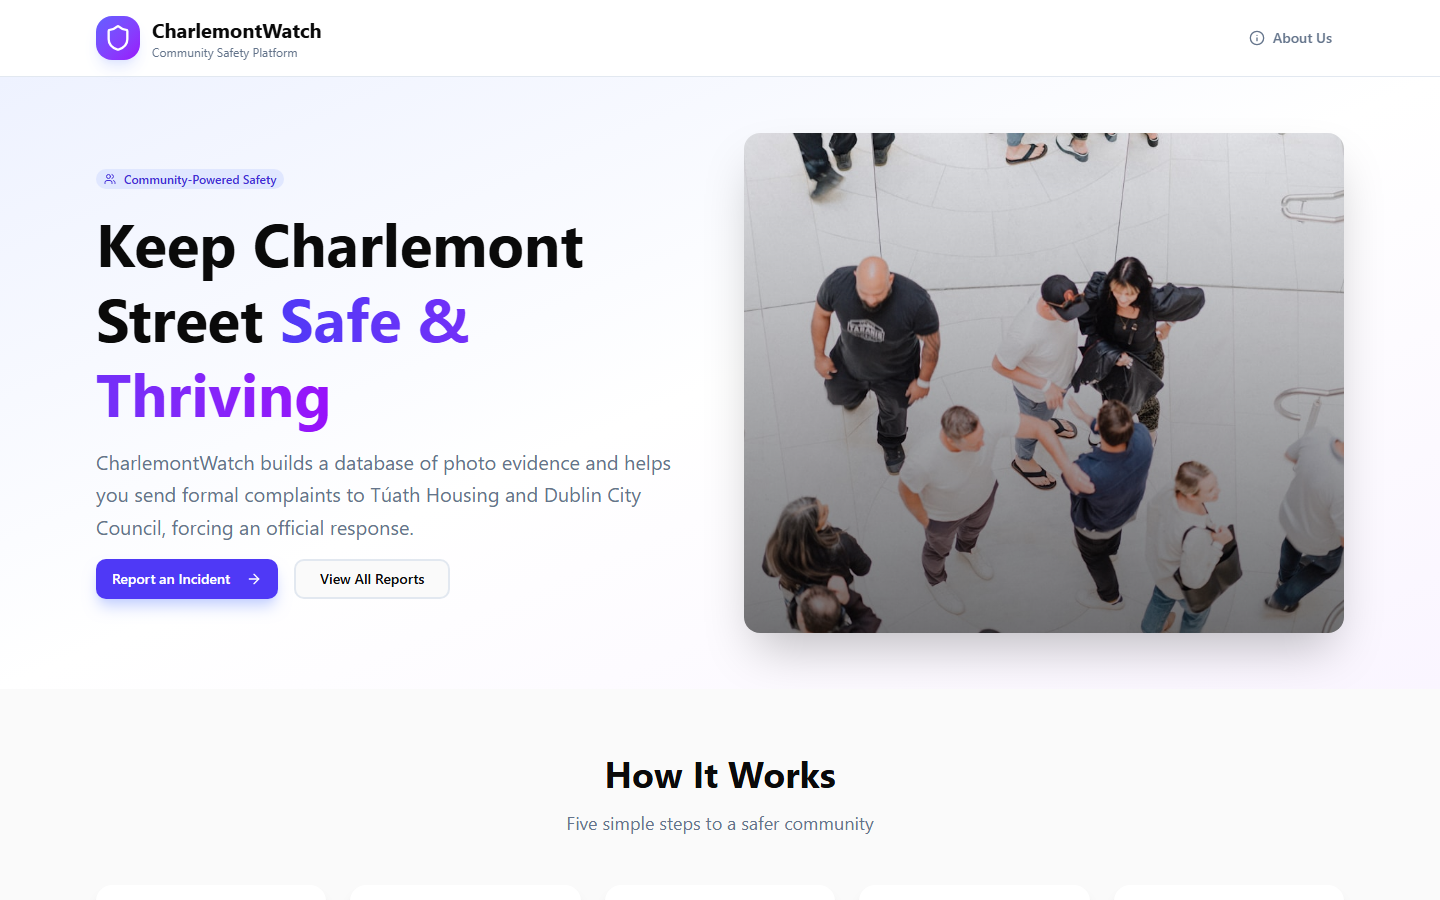
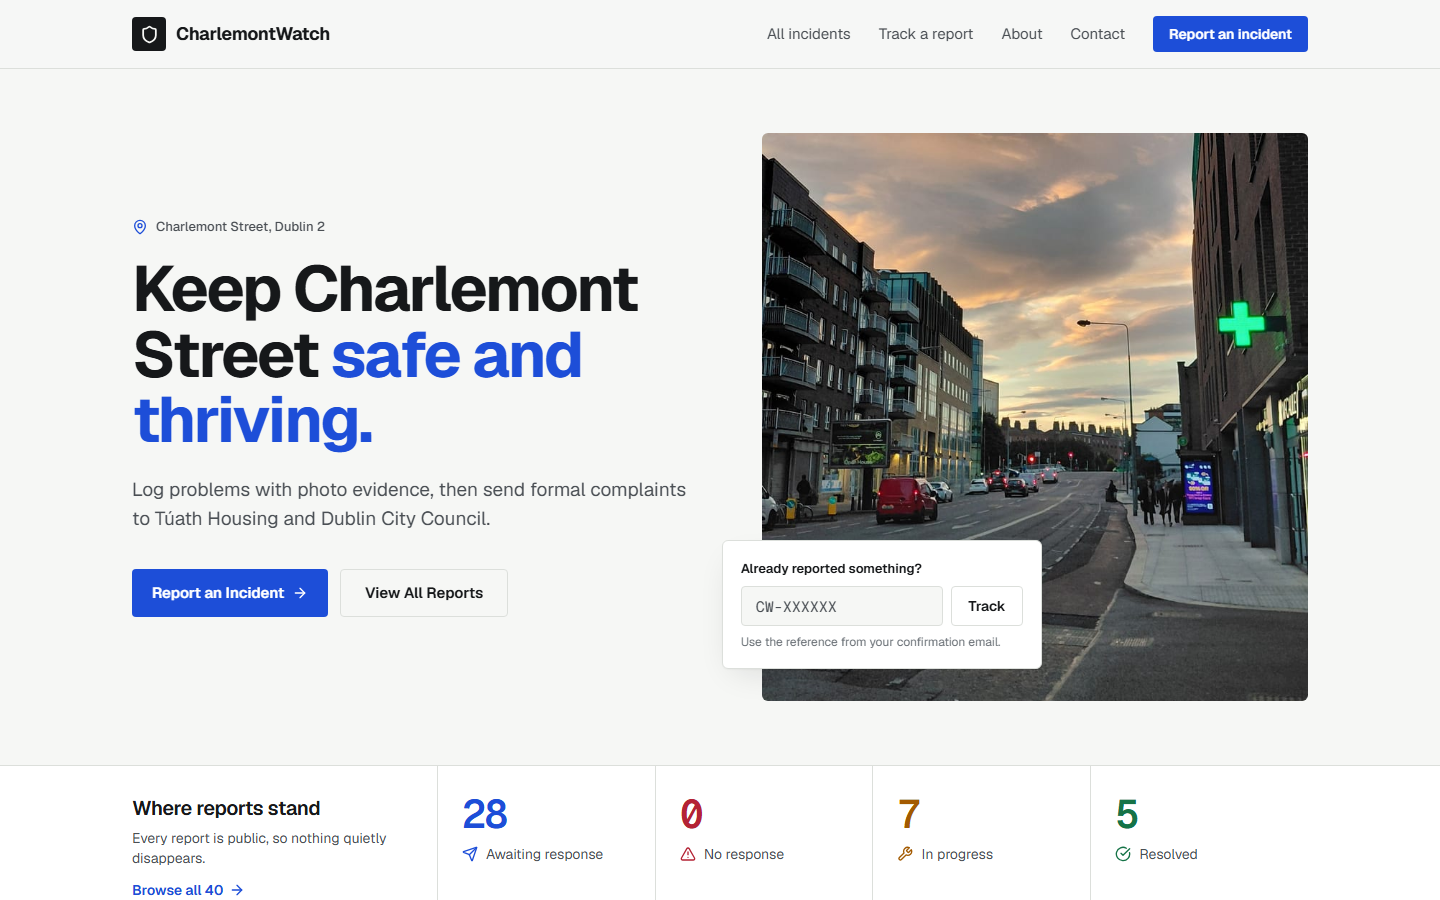
Update README, screenshots and docs for the redesign
- Replace README screenshots and the social preview image with the new design
- README: current statuses, responsive design, Geist fonts and theme
  tokens, production-only backend audit, E2E admin key note
- Use cases and diagrams: replace the old NEW status with
  AWAITING_RESPONSE / NO_RESPONSE

diff --git a/docs/use-cases/USE_CASES.md b/docs/use-cases/USE_CASES.md
@@ -45,14 +45,14 @@ The system boundary includes:
 |---|---|---|---|
 | UC-01 | Report an Incident | Resident | Submit a new incident report with type, location, description, required email, optional photos, and an optional formal complaint escalation |
 | UC-02 | Track a Report | Resident | Look up a specific incident by its shortId (e.g. `CW-A1B2C3`) or MongoDB ObjectId |
-| UC-03 | View All Public Incidents | Resident | Browse the public feed of all approved (NEW, IN_PROGRESS, RESOLVED) incidents |
+| UC-03 | View All Public Incidents | Resident | Browse the public feed of all approved (AWAITING_RESPONSE, NO_RESPONSE, IN_PROGRESS, RESOLVED) incidents |
 | UC-04 | View Incident Details | Resident | View full details of a single incident including photos and status |
 | UC-05 | Admin Login | Admin | Authenticate using email and password to access the admin dashboard |
 | UC-06 | Review Pending Queue | Admin | View all incidents with status `PENDING_REVIEW` awaiting moderation |
-| UC-07 | Approve Incident | Admin | Approve a pending incident, moving it to `NEW` and publishing it publicly |
+| UC-07 | Approve Incident | Admin | Approve a pending incident, moving it to `AWAITING_RESPONSE` and publishing it publicly |
 | UC-08 | Reject Incident | Admin | Reject a pending incident, setting status to `REJECTED` and hiding it from the public feed |
 | UC-09 | Toggle Photo Approval | Admin | Individually approve or reject specific photos on a pending incident before approving the report |
-| UC-10 | Update Incident Status | Admin | Change an approved incident's status between `NEW`, `IN_PROGRESS`, and `RESOLVED` |
+| UC-10 | Update Incident Status | Admin | Change an approved incident's status between `AWAITING_RESPONSE`, `NO_RESPONSE`, `IN_PROGRESS`, and `RESOLVED` |
 | UC-11 | Delete Incident | Admin | Permanently delete an incident from the system |
 | UC-12 | Admin Logout | Admin | End the authenticated admin session and clear the JWT token |
 | UC-13 | Receive Submission Confirmation | Resident | Receive an automated email confirming their report was received |
@@ -195,11 +195,11 @@ The system boundary includes:
 5. Admin clicks Approve on an incident
 6. System sends `PATCH /api/incidents/admin/:id/review` with `{ action: "approve" }`
 7. Backend resolves the incident by shortId using `findByAnyId`
-8. Backend sets `incident.status = 'NEW'` and marks all photos as `approved: true`
+8. Backend sets `incident.status = 'AWAITING_RESPONSE'` and marks all photos as `approved: true`
 9. Backend saves the updated incident
 10. Frontend removes the incident from the pending queue
 11. Frontend refreshes the public incidents list
-12. Incident is now visible on the public feed with status `NEW`
+12. Incident is now visible on the public feed with status `AWAITING_RESPONSE`
 
 **Alternative Flows:**
 
@@ -213,7 +213,7 @@ The system boundary includes:
 - Incident is permanently hidden from the public feed
 
 **Postconditions:**
-- Incident status is `NEW` in MongoDB
+- Incident status is `AWAITING_RESPONSE` in MongoDB
 - Incident appears on the public feed at `/incidents`
 - Incident no longer appears in the admin Review Queue
 - All photos are marked `approved: true`
@@ -251,7 +251,7 @@ The system boundary includes:
 
 *A1 — Incident is still PENDING_REVIEW:*
 - Backend returns the incident (public route allows reporters to track their own pending submission)
-- Frontend displays status as "Pending Review" with the purple badge
+- Frontend displays status as "Pending Review" with the violet status badge
 
 *A2 — Incident not found:*
 - Backend returns 404
@@ -277,15 +277,15 @@ The system boundary includes:
 ### UC-10 — Update Incident Status
 
 **Actor:** Admin
-**Goal:** Progress an approved incident through its lifecycle (NEW → IN_PROGRESS → RESOLVED)
+**Goal:** Progress an approved incident through its lifecycle (AWAITING_RESPONSE → NO_RESPONSE / IN_PROGRESS → RESOLVED)
 
 **Preconditions:**
 - Admin is authenticated
-- The incident has been approved and has a status of `NEW`, `IN_PROGRESS`, or `RESOLVED`
+- The incident has been approved and has a status of `AWAITING_RESPONSE`, `NO_RESPONSE`, `IN_PROGRESS`, or `RESOLVED`
 - Admin is on the Manage Incidents tab of `/admin`
 
 **Main Flow:**
-1. Admin selects a status filter tab (NEW, IN_PROGRESS, or RESOLVED)
+1. Admin selects a status filter (Awaiting Response, No Response, In Progress, or Resolved)
 2. System displays all incidents matching that status
 3. Admin clicks "Update Status" on a specific incident
 4. System opens a modal displaying the incident ID and a status dropdown

diff --git a/README.md b/README.md
@@ -19,12 +19,13 @@ CharlemontWatch lets residents document safety, maintenance, and quality-of-life
 - **Formal complaints** — optionally escalate a report directly to Túath Housing and/or Dublin City Council, with a formatted complaint email sent on the resident's behalf
 - **Complaint-sent confirmation** — the admin dashboard shows a live "Sent" badge per recipient once Resend confirms a complaint email actually delivered, rather than assuming the fire-and-forget send after approval worked
 - **Bot protection** — Cloudflare Turnstile CAPTCHA (verified server-side) plus per-IP rate limiting on report submissions, with the token generated on demand at submit time so a long-filled-out report doesn't submit a stale token
-- **Track by ID** — every report gets a unique `CW-XXXXXX` reference for status lookups, no account required
+- **Track by ID** — every report gets a unique `CW-XXXXXX` reference for status lookups, no account required; the tracking view shows how many working days each formal complaint has been waiting and flags overdue responses
 - **Satisfaction voting** — residents can publicly rate their satisfaction with Túath Housing (low/medium/high), one vote per email, changeable at any time
-- **Admin dashboard** — JWT-authenticated review queue, photo moderation, and status updates (New → In Progress → Resolved)
+- **Admin dashboard** — JWT-authenticated review queue, photo moderation, and status updates (Awaiting Response, No Response, In Progress, Resolved)
 - **Contact Us** — spam-protected general enquiry form for questions, feedback, or press, separate from the incident-report flow
 - **Safety guidance** — clear notices pointing residents to An Garda Síochána directly for emergencies or serious anti-social behaviour, since this platform isn't monitored in real time
 - **Privacy by design** — GDPR-compliant privacy policy, no analytics or third-party tracking, defined data retention periods
+- **Responsive design** — works from phones up to large monitors, with a mobile menu and a page width that grows on wide screens
 
 ## Screenshots
 
@@ -38,7 +39,7 @@ CharlemontWatch lets residents document safety, maintenance, and quality-of-life
 
 ## Tech Stack
 
-- **Frontend** — React + Vite + TypeScript, React Router, Tailwind CSS, shadcn/ui (Radix UI primitives), Axios, Lucide icons, Leaflet + OpenStreetMap (site footer location map)
+- **Frontend** — React + Vite + TypeScript, React Router, Tailwind CSS v4 (theme tokens in `frontend/src/styles/theme.css`), shadcn/ui (Radix UI primitives), self-hosted Geist and Geist Mono fonts, Axios, Lucide icons, Leaflet + OpenStreetMap (site footer location map)
 
 - **Backend** — Node.js + Express, MongoDB + Mongoose, JWT auth (bcryptjs), Multer + Sharp (photo upload + compression), AWS S3 (photo storage), Resend (email), Sentry (error monitoring), Helmet + express-rate-limit + express-mongo-sanitize + Cloudflare Turnstile (security hardening)
 
@@ -46,7 +47,7 @@ CharlemontWatch lets residents document safety, maintenance, and quality-of-life
 
 - **Testing** — Jest + Supertest (backend), Vitest + React Testing Library (frontend), Playwright (E2E), Artillery (load testing) — 277 automated tests (218 backend + 44 frontend + 15 E2E) across unit, integration, security, and E2E suites
 
-- **CI/CD** — GitHub Actions runs the full backend and frontend suites, a frontend type check, Playwright E2E, and an `npm audit` dependency check on every push to `dev` and PR to `main`, plus a daily encrypted `mongodump` backup workflow (GPG-encrypted before upload since the repo is public)
+- **CI/CD** — GitHub Actions runs the full backend and frontend suites, a frontend type check, Playwright E2E, and `npm audit` dependency checks (backend production dependencies at high severity, frontend at critical) on every push to `dev` and PR to `main`, plus a daily encrypted `mongodump` backup workflow (GPG-encrypted before upload since the repo is public)
 
 ## Getting Started
 
@@ -99,6 +100,7 @@ cd backend && npm test
 cd frontend && npm test
 
 # Frontend — end-to-end tests (Playwright)
+# The admin login specs expect VITE_ADMIN_KEY=charlemont2026, as set in CI
 cd frontend && npm run test:e2e
 ```
 

diff --git a/docs/use-cases/DIAGRAMS.md b/docs/use-cases/DIAGRAMS.md
@@ -64,12 +64,14 @@ stateDiagram-v2
     direction LR
     [*] --> PENDING_REVIEW : Resident submits report
 
-    PENDING_REVIEW --> NEW : Admin approves
+    PENDING_REVIEW --> AWAITING_RESPONSE : Admin approves
     PENDING_REVIEW --> REJECTED : Admin rejects
 
-    NEW --> IN_PROGRESS : Admin updates status
+    AWAITING_RESPONSE --> NO_RESPONSE : Admin updates status
+    AWAITING_RESPONSE --> IN_PROGRESS : Admin updates status
+    NO_RESPONSE --> IN_PROGRESS : Admin updates status
     IN_PROGRESS --> RESOLVED : Admin updates status
-    IN_PROGRESS --> NEW : Admin rolls back
+    IN_PROGRESS --> AWAITING_RESPONSE : Admin rolls back
     RESOLVED --> IN_PROGRESS : Admin re-opens
 
     REJECTED --> [*]
@@ -160,7 +162,7 @@ sequenceDiagram
     alt Approve
         Admin->>Frontend: Click Approve
         Frontend->>Backend: PATCH /api/incidents/admin/:id/review { action: "approve" }
-        Backend->>MongoDB: status = NEW, all photos approved = true
+        Backend->>MongoDB: status = AWAITING_RESPONSE, all photos approved = true
         MongoDB-->>Backend: Saved
         Backend-->>Frontend: Success
         Frontend->>Frontend: Remove from queue, refresh public feed
@@ -225,7 +227,7 @@ sequenceDiagram
     participant SendGrid
 
     Admin->>Frontend: Open Manage Incidents tab
-    Admin->>Frontend: Select status filter (NEW / IN_PROGRESS / RESOLVED)
+    Admin->>Frontend: Select status filter (AWAITING_RESPONSE / NO_RESPONSE / IN_PROGRESS / RESOLVED)
     Frontend->>Admin: Display filtered incidents
 
     Admin->>Frontend: Click "Update Status" on an incident
